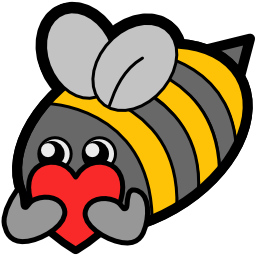
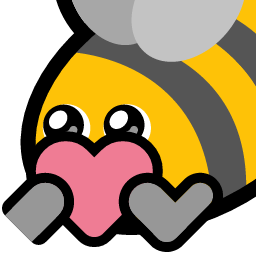
Use new blobbees

diff --git a/app/message/BeeScroller.tsx b/app/message/BeeScroller.tsx
@@ -26,24 +26,22 @@ export const BeeScroller = ({ direction }: BeeScrollerProps) => (
 
 const BeesLeft = () => (
   <>
-    <img src="/bees/blobbee.png" />
-    <img src="/bees/blobbee_pride.png" />
+    <img src="/bees/blobbee_gamer.png" />
+    <img src="/bees/blobbee_flag_rainbow.png" />
     <img src="/bees/blobbee_mug.png" />
-    <img src="/bees/blobbee_trans.png" />
-    {/* <img src="/bees/blobbee_laptop.png" /> */}
+    <img src="/bees/blobbee_flag_trans.png" />
     <img src="/bees/blobbee_lego.png" />
-    <img src="/bees/blobbee_nb.png" />
+    <img src="/bees/blobbee_flag_nb.png" />
   </>
 );
 
 const BeesRight = () => (
   <>
     <img src="/bees/blobbee_meeple.png" />
-    <img src="/bees/blobbee_lesbeean.png" />
+    <img src="/bees/blobbee_flag_lesbian.png" />
     <img src="/bees/blobbee_fox_ears.png" />
-    <img src="/bees/blobbee_ace.png" />
+    <img src="/bees/blobbee_flag_ace.png" />
     <img src="/bees/blobbee_neurodiverse.png" />
-    <img src="/bees/blobbee_agender.png" />
-    {/* <img src="/bees/blobbee_heart.png" /> */}
+    <img src="/bees/blobbee_flag_agender.png" />
   </>
 );
